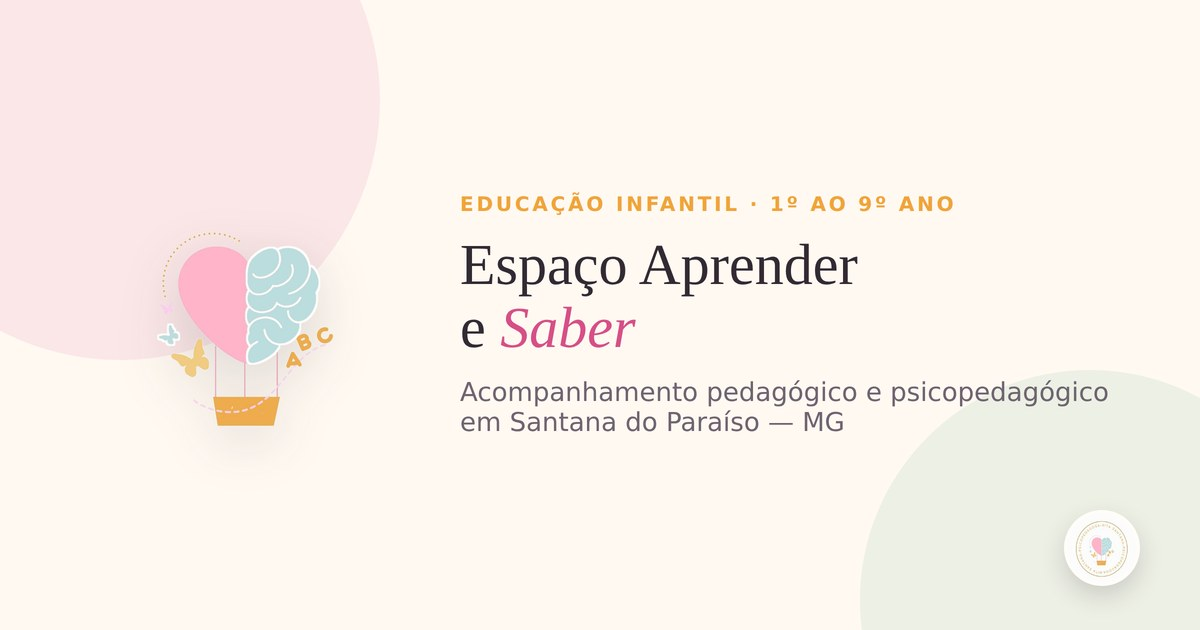
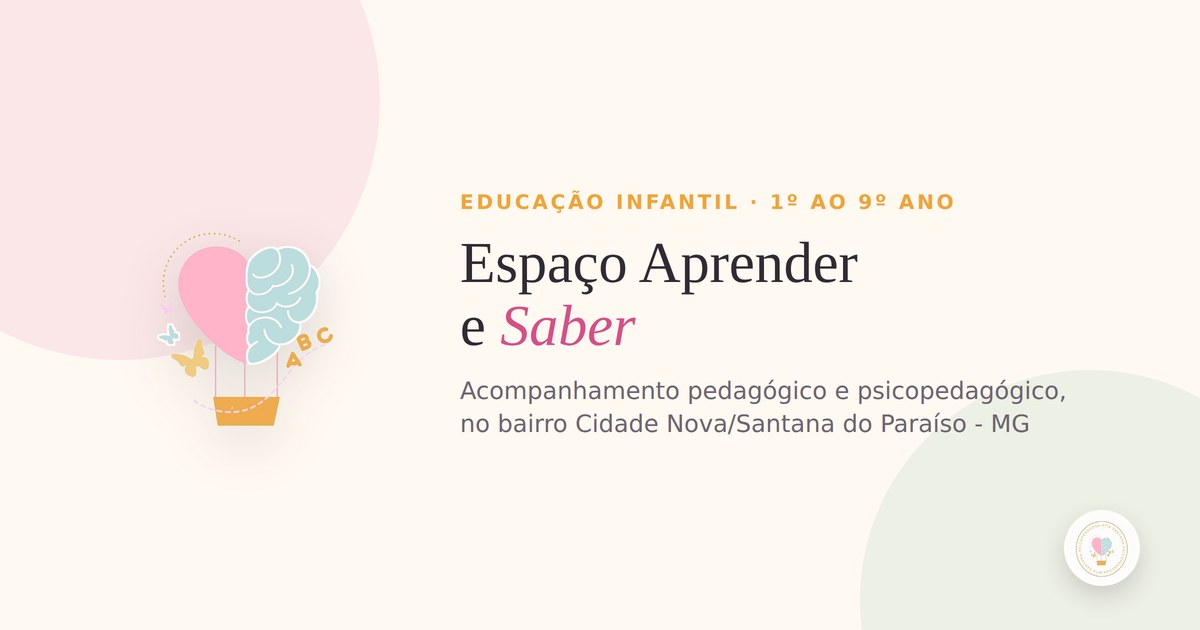
Add files via upload

Changed region(s): [[0.37, 0.6032, 0.925, 0.6937], [0.37, 0.3921, 0.7092, 0.573], [0.37, 0.3016, 0.8017, 0.3317]]

diff --git a/index.html b/index.html
@@ -13,21 +13,50 @@
[1 lines of base64/hex data omitted]
 
   <!-- Open Graph / Twitter Card -->
-  <!-- og:url e <link rel="canonical"> ainda não foram adicionados de propósito: aguardando
-       definição se o site fica no GitHub Pages (aprenderesaber.github.io) ou migra pra domínio
-       próprio. Quando decidido, me avise que eu adiciono. -->
+  <!-- URL atual do site: GitHub Pages. Se migrar para domínio próprio, trocar esta URL em:
+       canonical, og:url, og:image, twitter:image e no "url"/"image" do JSON-LD (mais abaixo). -->
+  <link rel="canonical" href="https://aprenderesaber.github.io/">
+  <meta property="og:url" content="https://aprenderesaber.github.io/">
   <meta property="og:type" content="website">
   <meta property="og:locale" content="pt_BR">
   <meta property="og:site_name" content="Espaço Aprender e Saber">
   <meta property="og:title" content="Espaço Aprender e Saber | Psicopedagogia">
-  <meta property="og:description" content="Acompanhamento pedagógico, psicopedagógico e neuropedagógico para crianças da Educação Infantil ao 9º ano, em Santana do Paraíso — MG.">
+  <meta property="og:description" content="Acompanhamento pedagógico, psicopedagógico e neuropedagógico para crianças da Educação Infantil ao 9º ano, no bairro Cidade Nova/Santana do Paraíso - MG.">
   <meta property="og:image" content="https://aprenderesaber.github.io/og-image.jpg">
   <meta property="og:image:width" content="1200">
   <meta property="og:image:height" content="630">
   <meta name="twitter:card" content="summary_large_image">
   <meta name="twitter:title" content="Espaço Aprender e Saber | Psicopedagogia">
-  <meta name="twitter:description" content="Acompanhamento pedagógico, psicopedagógico e neuropedagógico para crianças da Educação Infantil ao 9º ano, em Santana do Paraíso — MG.">
+  <meta name="twitter:description" content="Acompanhamento pedagógico, psicopedagógico e neuropedagógico para crianças da Educação Infantil ao 9º ano, no bairro Cidade Nova/Santana do Paraíso - MG.">
   <meta name="twitter:image" content="https://aprenderesaber.github.io/og-image.jpg">
+
+  <!-- Dados estruturados (somente informações visíveis na página) -->
+  <script type="application/ld+json">
+  {
+    "@context": "https://schema.org",
+    "@type": "LocalBusiness",
+    "name": "Espaço Aprender e Saber",
+    "description": "Acompanhamento pedagógico, psicopedagógico e neuropedagógico para crianças da Educação Infantil ao 9º ano.",
+    "url": "https://aprenderesaber.github.io/",
+    "image": "https://aprenderesaber.github.io/og-image.jpg",
+    "telephone": "+5531989619232",
+    "address": {
+      "@type": "PostalAddress",
+      "streetAddress": "Rua Marechal Rondon, 34 B - Cidade Nova",
+      "addressLocality": "Santana do Paraíso",
+      "addressRegion": "MG",
+      "addressCountry": "BR"
+    },
+    "geo": {
+      "@type": "GeoCoordinates",
+      "latitude": -19.4708436,
+      "longitude": -42.505937
+    },
+    "sameAs": [
+      "https://instagram.com/ritasantana_psicopedagoga"
+    ]
+  }
+  </script>
   <style>
 :root {
   --pink: #d64f86;
